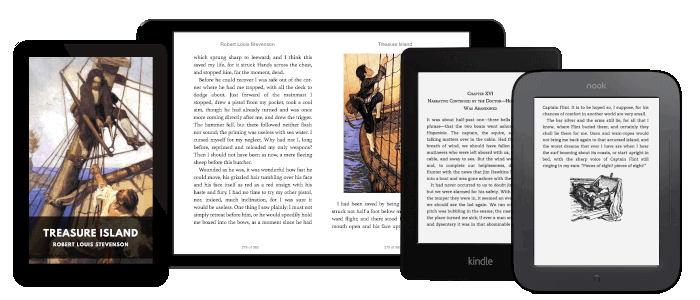
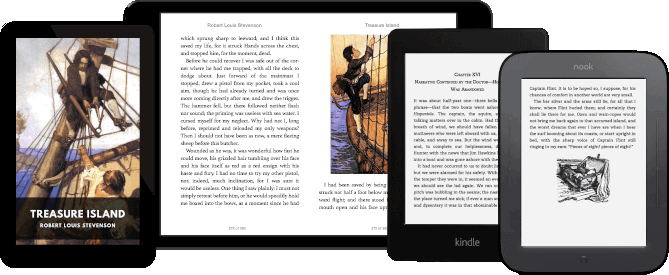
Fix some spacing and sizing on responsive

diff --git a/www/css/core.css b/www/css/core.css
@@ -172,8 +172,12 @@ main.front-page > picture img{
 	max-width: 100%; /* for responsive */
 }
 
-main > article{
+main.front-page > picture img{
+	margin-top: 2rem;
+	margin-bottom: 1rem;
+}
 
+main > article{
 	display: flex;
 	flex-direction: column;
 	align-items: center;
@@ -468,6 +472,7 @@ main.front-page > section > h2{
 	border-top: 3px double var(--sub-text);
 	border-bottom: 3px double var(--sub-text);
 	padding: 2rem 4rem;
+	hyphens: none;
 }
 
 main.front-page > section > h2::before{
@@ -483,6 +488,7 @@ main.front-page > section > section > h3{
 	text-align: center;
 	font-size: 2rem;
 	margin-top: 0;
+	hyphens: none;
 }
 
 main.center h1{
@@ -625,6 +631,9 @@ code{
 main.front-page > a.button{
 	align-self: center;
 	margin-top: 4rem;
+	white-space: normal;
+	height: auto;
+	text-align: center;
 }
 
 article.ebook ul,
@@ -1821,6 +1830,29 @@ main.ebooks nav ol li.highlighted:nth-last-child(2)::after{
 }
 
 @media(max-width: 1000px){
+	main.front-page h1{
+		padding: 2rem;
+	}
+
+	main.front-page > section > section > div{
+		flex-direction: column;
+	}
+
+	main.front-page > section > section > div figure{
+		order: 1;
+		margin: 0;
+		margin-bottom: 2rem;
+	}
+
+	main.front-page > section > section > div div{
+		order: 2;
+		width: 100%;
+	}
+
+	main.front-page > section > section p{
+		width: 100%;
+	}
+
 	article.ebook #more-ebooks ul{
 		flex-wrap: wrap;
 	}
@@ -1896,6 +1928,10 @@ main.ebooks nav ol li.highlighted:nth-last-child(2)::after{
 	.donate table td p{
 		text-align: center;
 	}
+
+	.donate table.multi tr td + td{
+		padding-top: 1rem;
+	}
 }
 
 @media(max-width: 870px){
@@ -1961,7 +1997,6 @@ main.ebooks nav ol li.highlighted:nth-last-child(2)::after{
 
 @media(max-width: 680px){
 	main.front-page h1{
-		padding: 3rem;
 		font-size: 2.4rem;
 	}
 

diff --git a/www/index.php b/www/index.php
@@ -50,7 +50,9 @@ require_once('Core.php');
 		<section>
 			<h3>Rich &amp; detailed metadata</h3>
 			<div>
-				<p>Our ebooks include complete, well-researched, and consistent metadata, including original, detailed book blurbs and links to encyclopedia sources. Perfect for machine processing or for extra-curious, technically-minded readers.</p>
+				<div>
+					<p>Our ebooks include complete, well-researched, and consistent metadata, including original, detailed book blurbs and links to encyclopedia sources. Perfect for machine processing or for extra-curious, technically-minded readers.</p>
+				</div>
 				<figure>
 					<picture>
 						<source srcset="/images/metadata@2x.png 2x, /images/metadata.png 1x" type="image/png"/>
